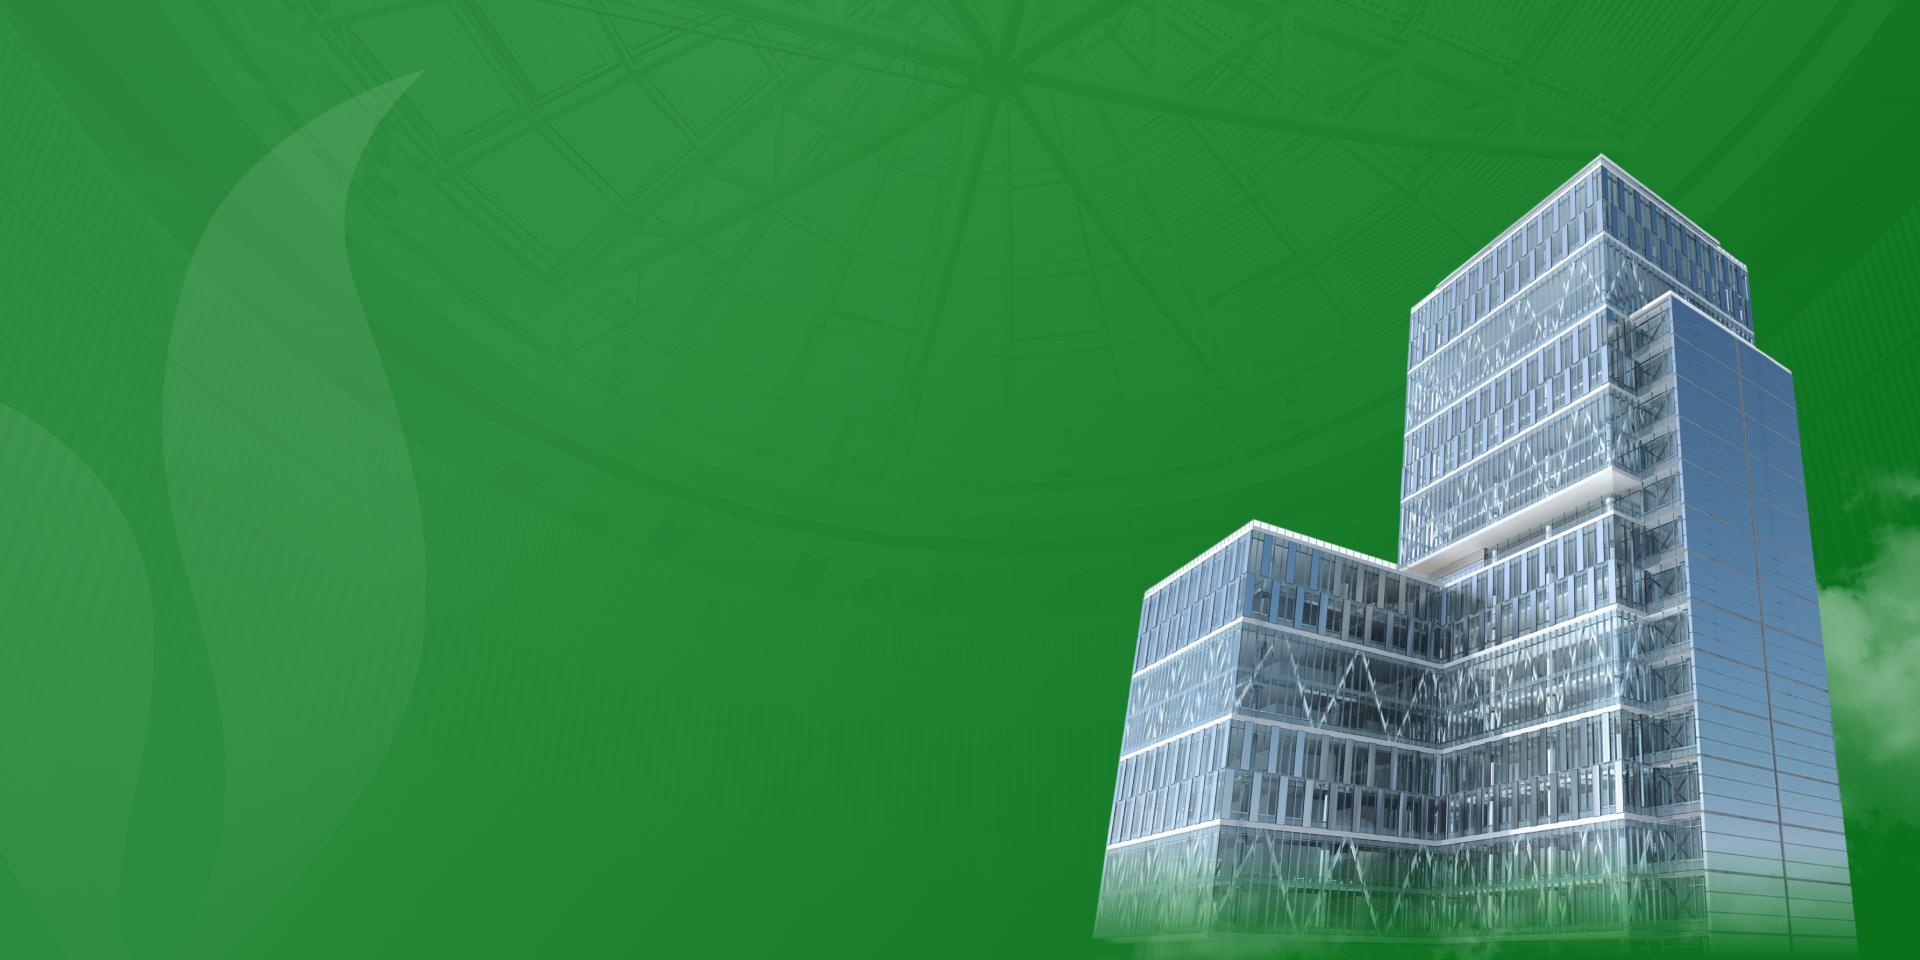
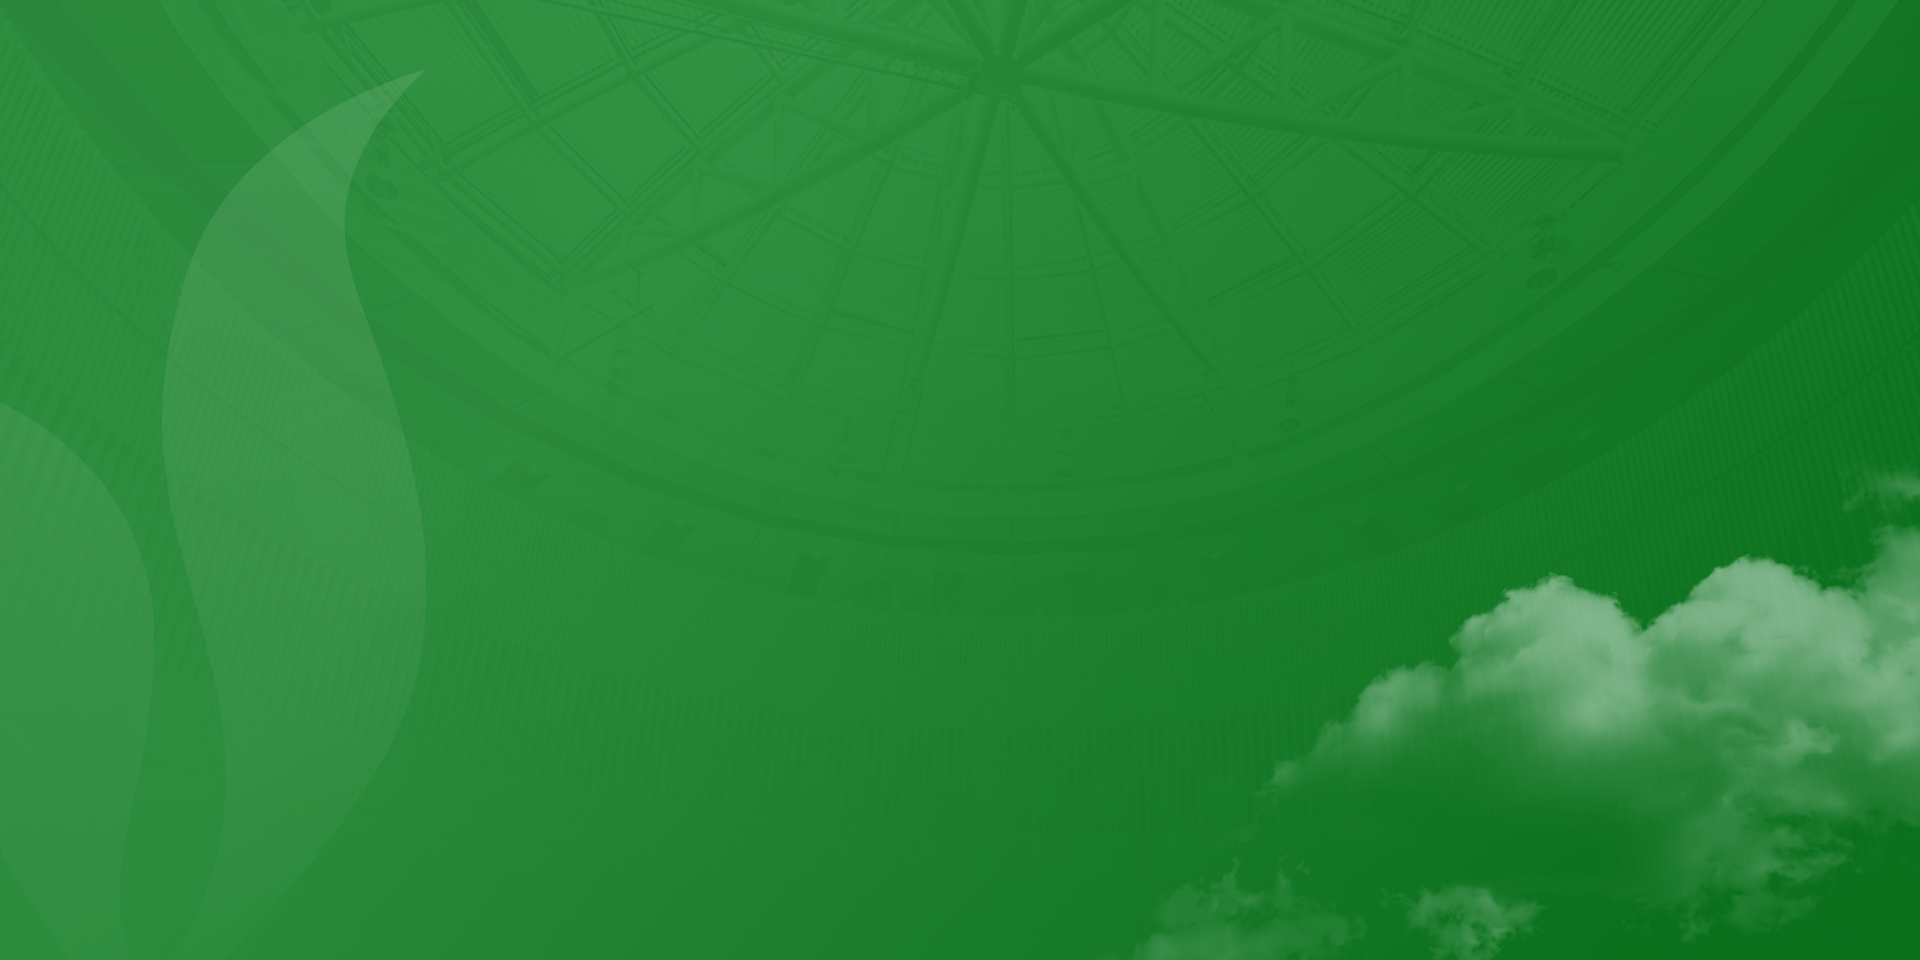
fix ui layout home page

Changed region(s): [[0.5625, 0.1562, 0.9688, 1.0]]

diff --git a/src/js/swiper.js b/src/js/swiper.js
@@ -12,6 +12,7 @@ import {
 /**
  * @param swiperInit
  */
+
 export function swiperInit() {
   new Swiper(".pagination-swiper", {
     slidesPerView: 1,
@@ -19,9 +20,9 @@ export function swiperInit() {
     speed: 1000,
     loop: true,
     effect: "fade",
-    autoplay: {
-      delay: 3500,
-    },
+    // autoplay: {
+    //   delay: 3500,
+    // },
     modules: [Pagination, Navigation, Autoplay, EffectFade],
     pagination: {
       el: ".swiper-pagination-home-1",
@@ -34,7 +35,11 @@ export function swiperInit() {
           "Phát triển bền vững",
         ];
         return (
-          '<p class=" col-span-1 text-white !bg-transparent border-white cursor-pointer w-full ' + className +' ">' +item_p[index % item_p.length] +"</p>"
+          '<p class=" col-span-1 text-white !bg-transparent border-white cursor-pointer w-full line-clamp-2 ' +
+          className +
+          ' ">' +
+          item_p[index % item_p.length] +
+          "</p>"
         );
       },
     },
@@ -43,20 +48,22 @@ export function swiperInit() {
   new Swiper(".vertical-swiper", {
     direction: "vertical",
     slidesPerView: 1,
-    mousewheel: true,
+    // mousewheel: true,
     modules: [Pagination, Mousewheel],
     pagination: {
-      el: ".swiper-pagination",
+      el: ".swiper-pagination-vertical",
       clickable: true,
       renderBullet: function (index, className) {
         const title = [
-          'banner',
-          'gioi thieu',
-          'linh vu hoat dong',
-          'du an tieu bieu',
-          'tin tuc'
-        ]
-        return `<p class="circle ${className}"><span class="title-pagination">${title[index % title.length]}</span></p>`;
+          "banner",
+          "gioi thieu",
+          "linh vu hoat dong",
+          "du an tieu bieu",
+          "tin tuc",
+        ];
+        return `<p class="circle ${className}"><span class="title-pagination">${
+          title[index % title.length]
+        }</span></p>`;
       },
     },
     on: {
@@ -79,7 +86,7 @@ export function swiperInit() {
   });
 
   new Swiper(".scrollswiper-1", {
-    slidesPerView: 1,
+    slidesPerView: 2,
     spaceBetween: 24,
     autoplay: {
       delay: 3000,
@@ -108,4 +115,19 @@ export function swiperInit() {
     },
     modules: [Navigation, Pagination, Autoplay],
   });
+
+  new Swiper(".project-swiper", {
+    slidesPerView: 2,
+    pagination:{
+      el:'.swiper-pagination',
+      clickable:true
+    },
+    loop:true,
+    breakpoints: {
+      1024: {
+        slidesPerView: 4, // không cần, vì phần này ẩn bằng CSS
+      },
+    },
+    modules:[Pagination]
+  });  
 }

diff --git a/src/components/global/Header/Header.sass b/src/components/global/Header/Header.sass
@@ -2,13 +2,15 @@ header
 	@apply fixed top-0 left-0 w-screen
 	@apply text-black z-30 bg-white
 	font-family: 'Exo 2', sans-serif
-	.header-logo, .header-logo-mobile
-		@apply rem:w-[104px] rem:h-[104px]
+	.header-logo
 		a
 			img
 				@apply w-full h-full object-cover
 	.header-logo-mobile
-		@apply xl:hidden block
+		@apply xl:hidden block 
+		a
+			img
+				@apply rem:h-[70px]
 	.header-language
 		@apply flex items-center gap-2 text-[#41924F]
 		position: relative
@@ -30,8 +32,6 @@ header
 				@apply opacity-50
 			li.wpml-ls-current-language
 				@apply hidden  
-// .active
-// 	@apply bg-white text-black
 .header-menu
 	@apply flex justify-end gap-7 rem:leading-[25px] items-center content-stretch
 	.item-menu
@@ -43,9 +43,9 @@ header
 		@apply rem:py-[9px] 
 .header-menu-bottom
 	.item-nav-bar
-		@apply py-7 
-		a
-			@apply py-7
+		@apply py-6
+		.item-menu
+			@apply py-7 h-full
 .phone-number
 		@apply flex items-center gap-2
 		i

diff --git a/src/components/_core/_index.sass b/src/components/_core/_index.sass
@@ -1,6 +1,10 @@
 @import 'src/components/_core/_mixins'
 @import 'plugins/Wordpress/form'
 
+body
+	font-family: 'Exo 2', sans-serif
+
+
 .edit-link i:before
 	content: '✏'
 
@@ -22,8 +26,7 @@
 .vertical-swiper .swiper-slide,
 .pagination-swiper .swiper-slide
 	min-height: 0 // tránh 0 height
-.swiper-pagination
-	@apply gap-1 flex flex-col items-center
+.swiper-pagination-vertical
 	position: absolute
 	top: 50%
 	right: 40px
@@ -62,7 +65,7 @@
 		border: 0
 		opacity: 1
 	.title-pagination
-		@apply rem:w-[150px] text-center absolute -left-1/2 translate-x-0 p-3 -top-1/2	 bg-[#0C5919] text-white rounded-5 opacity-0 transition-all duration-300
+		@apply rem:w-[150px] text-center absolute -left-1/2 translate-x-0 p-3 -top-1/2 bg-primary-1 text-white rounded-5 opacity-0 transition-all duration-300
 	.circle.swiper-pagination-bullet-active
 		&::before
 			content: ""

diff --git a/src/components/modules/Home/Home-2/Home-2.sass b/src/components/modules/Home/Home-2/Home-2.sass
@@ -1,6 +1,6 @@
 
 .section-home-2
-  @apply bg-[url("/img/bg-section-2.png")] bg-no-repeat bg-cover bg-center text-white
+  @apply bg-[url("/img/bg-section-2.png")] bg-no-repeat bg-cover bg-center text-white relative
 .title-h1
   @apply text-xl md:rem:text-[48px] rem:leading-[64px] font-extrabold
   font-family: 'Exo 2', sans-serif
@@ -8,3 +8,12 @@
   @apply rem:text-[20px] leading-7 font-bold
 .title-p
   @apply text-base leading-5 opacity-60
+
+.btn-gradient
+  @apply inline-flex items-center gap-2 px-6 py-3 text-white bg-[#2B378D] font-semibold  
+  border: 3px solid transparent
+  border-image: linear-gradient(to right, #56606e, #ffffff)
+  border-image-slice: 1
+  transition: 0.3s ease
+  &:hover
+    border-image: linear-gradient(to right, #4f46e5, #38bdf8)

diff --git a/src/components/modules/Home/Home-4/Home-4.sass b/src/components/modules/Home/Home-4/Home-4.sass
@@ -5,3 +5,26 @@
   &:not(:hover)
     flex: 0.9 0 0%
 
+.section-projects
+  @apply h-full
+
+.bg-item-project
+  &::after
+    content: ''
+    position: absolute
+    bottom: 0
+    left: 0
+    height: 50%
+    width: 100%
+    z-index: 1
+    background: linear-gradient(to bottom, #191b1900, #0C5919)
+.animate-move
+  animation: move 1s infinite
+
+@keyframes move
+  0%,100%
+    transform: translateX(-50%)
+    animation-timing-function: cubic-bezier(0.8, 0, 1, 1)
+  50%
+    transform: translateX(0)
+    animation-timing-function: cubic-bezier(0, 0, 0.2, 1)

diff --git a/src/components/modules/Home/Home-1/Home-1.sass b/src/components/modules/Home/Home-1/Home-1.sass
@@ -1,10 +1,10 @@
 .home-section-1
   @apply overflow-hidden
 .swiper-pagination-home-1
-  @apply absolute rem:bottom-[5%] z-2
+  @apply absolute z-2 md:rem:bottom-[20%] bottom-[10%]
 .swiper-pagination-bullet
   @apply xl:rem:h-[40px] rem:h-[50px] text-left border-b-4
   background: none
   border-radius: 0
 .swiper-pagination-bullets.swiper-pagination-horizontal
-  @apply xl:rem:w-[1600px] left-1/2 -translate-x-1/2 rem:bottom-[5%] rem:text-[16px] 
+  @apply xl:rem:w-[1600px] left-1/2 -translate-x-1/2 md:rem:bottom-[5%] bottom-[13%] rem:text-[16px] 

diff --git a/src/components/modules/Home/Home-5/Home-5.sass b/src/components/modules/Home/Home-5/Home-5.sass
@@ -1,5 +1,8 @@
 p.title-span
   @apply relative
   &::after
-    @apply absolute md:left-[51%] left-[48%] top-1/2 -translate-x-1/2 -translate-y-1/2 w-1 h-1 bg-gray-500 rounded-full 
+    @apply absolute md:left-[51%] left-[48%] top-1/2 -translate-x-1/2 -translate-y-1/2 w-1 h-1 bg-gray-500 rounded-full
     content: ""
+.content-section-5
+  @apply grid grid-cols-2 gap-6 pb-10 overflow-y-scroll 
+  scrollbar-width: none

diff --git a/src/components/modules/Home/Home-3/Home-3.sass b/src/components/modules/Home/Home-3/Home-3.sass
@@ -64,6 +64,6 @@
           width: 92%
           @apply rounded-lg
     .card-item-title
-      @apply text-2xl font-bold text-white
+      @apply text-2xl font-bold text-white line-clamp-2
     .card-item-info
-      @apply text-gray-300 mt-2 text-lg
+      @apply text-gray-300 mt-2 text-lg line-clamp-3

diff --git a/src/components/modules/Home/Home-6/Home-6.sass b/src/components/modules/Home/Home-6/Home-6.sass
@@ -10,7 +10,8 @@
       img
         @apply rem:w-[253px] object-cover
   .footer-middle
-    @apply border-t border-[#E5E5E5] py-10
+    @apply border-t border-[#E5E5E5] pt-20 pb-10 lg:overscroll-none overflow-y-scroll 
+    scrollbar-width: none
     .subscribe
       @apply w-full
       .subscribefrm

diff --git a/src/components/global/Header/HeaderHambuger.sass b/src/components/global/Header/HeaderHambuger.sass
@@ -24,7 +24,7 @@
 		ul
 			@apply flex flex-col gap-6 bg-[#0A701C] h-screen py-5
 			li
-				@apply relative text-white text-[20px] font-bold border-b-2 px-[20px] py-2
+				@apply relative text-white text-28 font-bold border-b-2 px-5 py-2 cursor-pointer
 body.isOpenMenu
 	header
 		@apply bg-white

diff --git a/tailwind.config.js b/tailwind.config.js
@@ -233,7 +233,7 @@ module.exports = {
 			colors: {
 				transparent: "transparent",
 				"primary": {
-					"1": "#12545e",
+					"1": "#0C5919",
 					"2": "#e45c1e",
 					"3": "#232321"
 				},
